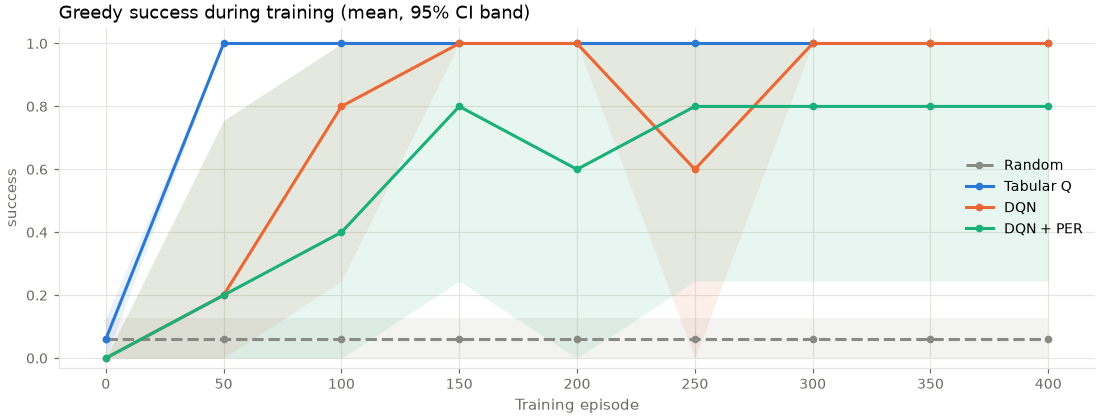
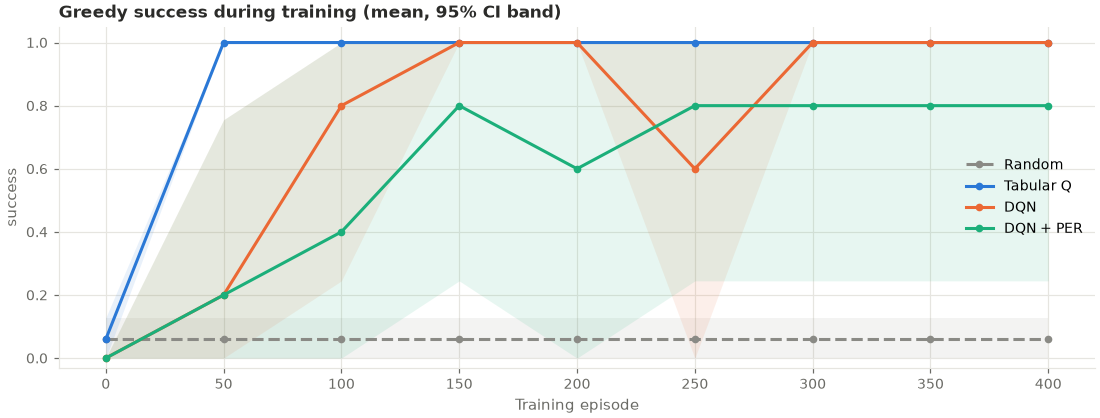
Fix chart headings overlapping chart titles
Gradio drew each gr.Plot's label as a badge in the top-left corner of
the chart, on top of the chart's own left-aligned title. The labels
duplicated the titles, so they are hidden (show_label=False) on all
nine charts.

The replay chart's title is split over two lines (step and action,
then events) so a long title cannot run into the Q-value panel, and
every chart title now uses the same bold style. Report figures were
regenerated.

diff --git a/src/app.py b/src/app.py
@@ -443,8 +443,8 @@ def build_app() -> gr.Blocks:
                                      label="Experiment")
                 metric_dd = gr.Dropdown(METRIC_CHOICES, value="success", label="Metric")
             exp_md = gr.Markdown()
-            bars = gr.Plot(label="Final result per agent")
-            curves = gr.Plot(label="Greedy learning curves")
+            bars = gr.Plot(show_label=False)
+            curves = gr.Plot(show_label=False)
             gr.Markdown("#### Mean ± 95% confidence interval across seeds")
             summary_df = gr.Dataframe(interactive=False, wrap=True)
             gr.Markdown("#### Are the differences real? (permutation tests on success rate)")
@@ -468,11 +468,11 @@ def build_app() -> gr.Blocks:
                     with gr.Row():
                         train_btn = gr.Button("Train", variant="primary")
                         stop_btn = gr.Button("Stop", variant="stop")
-                    preview = gr.Plot(label="Layout")
+                    preview = gr.Plot(show_label=False)
                 with gr.Column(scale=3):
                     status = gr.Markdown("Pick an agent and press **Train**.")
-                    curve_plot = gr.Plot(label="Learning curves")
-                    types_plot = gr.Plot(label="Mistakes by type")
+                    curve_plot = gr.Plot(show_label=False)
+                    types_plot = gr.Plot(show_label=False)
                     with gr.Row():
                         commentary = gr.Textbox(label="Live commentary", lines=14,
                                                 max_lines=14, interactive=False)
@@ -492,8 +492,8 @@ def build_app() -> gr.Blocks:
                                    label="Compare first N vs last N episodes")
                 refresh = gr.Button("Refresh", variant="primary")
             hist_md = gr.Markdown(_need_trainer(new_session()))
-            heat_plot = gr.Plot(label="Where the mistakes happen")
-            reward_plot = gr.Plot(label="Reward breakdown")
+            heat_plot = gr.Plot(show_label=False)
+            reward_plot = gr.Plot(show_label=False)
             with gr.Row():
                 with gr.Column():
                     gr.Markdown("#### Early vs late training")
@@ -519,7 +519,7 @@ def build_app() -> gr.Blocks:
             with gr.Row():
                 record_btn = gr.Button("Record episode", variant="primary")
                 play_btn = gr.Button("▶ Play")
-            frame_plot = gr.Plot(label="Replay")
+            frame_plot = gr.Plot(show_label=False)
             frame_md = gr.Markdown()
             step_slider = gr.Slider(0, 1, value=0, step=1, label="Step")
             record_btn.click(record_replay, [state, layout_mode, unseen_seed],
@@ -536,7 +536,7 @@ def build_app() -> gr.Blocks:
                 race_seed = gr.Number(value=0, precision=0, label="Seed")
                 race_btn = gr.Button("Start race", variant="primary")
             race_md = gr.Markdown()
-            race_plot = gr.Plot(label="Learning curves")
+            race_plot = gr.Plot(show_label=False)
             race_df = gr.Dataframe(interactive=False)
             race_btn.click(race, [race_preset, race_eps, race_seed], [race_md, race_plot, race_df])
 

diff --git a/src/visualization.py b/src/visualization.py
@@ -63,7 +63,7 @@ def _style(ax) -> None:
 
 
 def _title(ax, text: str) -> None:
-    ax.set_title(text, loc="left")
+    ax.set_title(text, loc="left", color=INK, fontsize=11, fontweight="bold")
 
 
 def rolling_mean(values: Sequence[float], window: int) -> tuple:
@@ -382,8 +382,9 @@ def frame_figure(env: GridWorld, frames: List[dict], index: int,
     ax_maze, ax_q = fig.subplots(1, 2, gridspec_kw={"width_ratios": [1.15, 1]})
     _style(ax_q)
     events = ", ".join(frame["events"]) or "no event"
+    # Two short lines: one long line can run into the Q-value panel's title.
     draw_grid(ax_maze, env.grid, start=env.start, pos=frame["pos"], path=path, path_color=color,
-              title=f"Step {frame['step']}: {frame['action'] or 'start'} ({events})")
+              title=f"Step {frame['step']}: {frame['action'] or 'start'}\n{events}")
     # Q-values of the state shown are stored with the *next* frame (the step
     # that acted from this state); frame 0 also carries them for the start.
     if index + 1 < len(frames):
@@ -409,7 +410,7 @@ def frame_figure(env: GridWorld, frames: List[dict], index: int,
         ax_q.grid(axis="y", visible=False)
         span = max(abs(q).max(), 1e-6)
         ax_q.set_xlim(min(q.min(), 0) - 0.35 * span, max(q.max(), 0) + 0.35 * span)
-        _title(ax_q, "Q-values here (dark = chosen)")
+        _title(ax_q, "Q-values at this cell\n(dark = chosen action)")
     return fig
 
 
